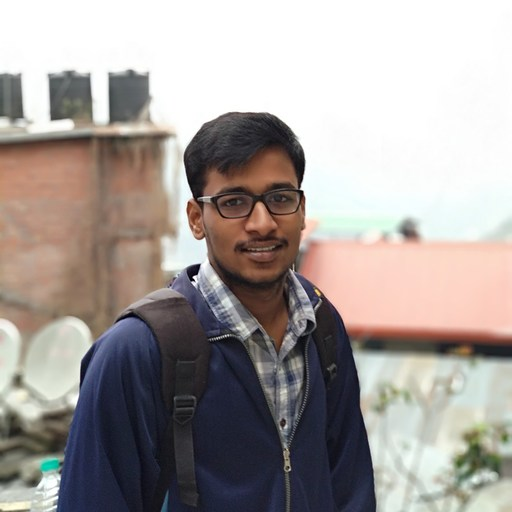
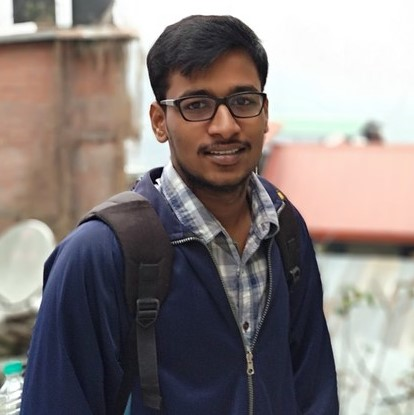
improve profile section

diff --git a/components/navbar.tsx b/components/navbar.tsx
@@ -9,14 +9,14 @@ const name = 'Aravind Reddy';
 const designation = 'Software Developer';
 
 export const NavBar=():ReactElement=>{
-    const {NavContainer, Profile, ProfileImage, ProfileName, ProfileDesignation, ProfileText, ContactLinks, IconContainer} = StyledNavBar;
+    const {NavContainer, Profile, ProfileImage, ProfileName, ProfileDesignation, ProfileText, ContactLinks, IconContainer, ProfileImageContainer} = StyledNavBar;
     const iconValue = { color: '#000', style: { verticalAlign: 'middle', fontSize: '30px' } };
     return(
         <NavContainer>
             <Profile>
-                <Link href="/"><a><ProfileImage src="/profile.jpg" alt="aravind reddy's image" /></a></Link>
+                <Link href="/"><ProfileImageContainer><ProfileImage src="/profile.jpg" alt="aravind reddy's image" /></ProfileImageContainer></Link>
                 <ProfileText>
-                    <ProfileName><Link href='/'><a>{name}</a></Link></ProfileName>
+                    <Link href='/'><ProfileName>{name}</ProfileName></Link>
                     <ProfileDesignation>{designation}</ProfileDesignation>
                 </ProfileText>
             </Profile>

diff --git a/components/styled/styledNav.tsx b/components/styled/styledNav.tsx
@@ -11,6 +11,7 @@ const NavContainer = styled.div`
 
 const Profile = styled.div`
     display: flex;
+    line-height: 1;
 `;
 
 const ProfileImage = styled.img`
@@ -20,18 +21,27 @@ const ProfileImage = styled.img`
     border: 2px solid #acacae;
 `;
 
-const ProfileName = styled.text`
+const ProfileImageContainer = styled.a`
+    display: block;
+    padding: 8px;
+    font-size: 0;
+`;
+
+const ProfileName = styled.a`
     color: #1f2933;
+    font-weight: 600;
+    font-size: 1.3rem;
+    padding: 4px 8px;
 `;
 
 const ProfileDesignation = styled.div`
     color: #616e7c;
+    padding: 0 0 4px 8px;
 `;
 
 const ProfileText = styled.div`
     display:flex;
     flex-direction: column;
-    padding: 8px;
     justify-content: center;
 `;
 
@@ -46,6 +56,7 @@ const IconContainer = styled.div`
 export default {
     NavContainer,
     ProfileImage,
+    ProfileImageContainer,
     Profile,
     ProfileName,
     ProfileDesignation,

diff --git a/pages/index.tsx b/pages/index.tsx
@@ -6,7 +6,7 @@ import Layout from '../components/layout';
 export default function Home():ReactElement {
     const {HomeView} = StyledHome;
     return (
-        <Layout isHome>
+        <Layout>
             <HomeView>
                 <Head>
                     <title>Home - Aravind Reddy</title>

diff --git a/styles/globals.css b/styles/globals.css
@@ -1,5 +1,6 @@
 html,
 body {
+  font-size: 18px;
   padding: 0;
   margin: 0;
   font-family: -apple-system, BlinkMacSystemFont, Segoe UI, Roboto, Oxygen,
